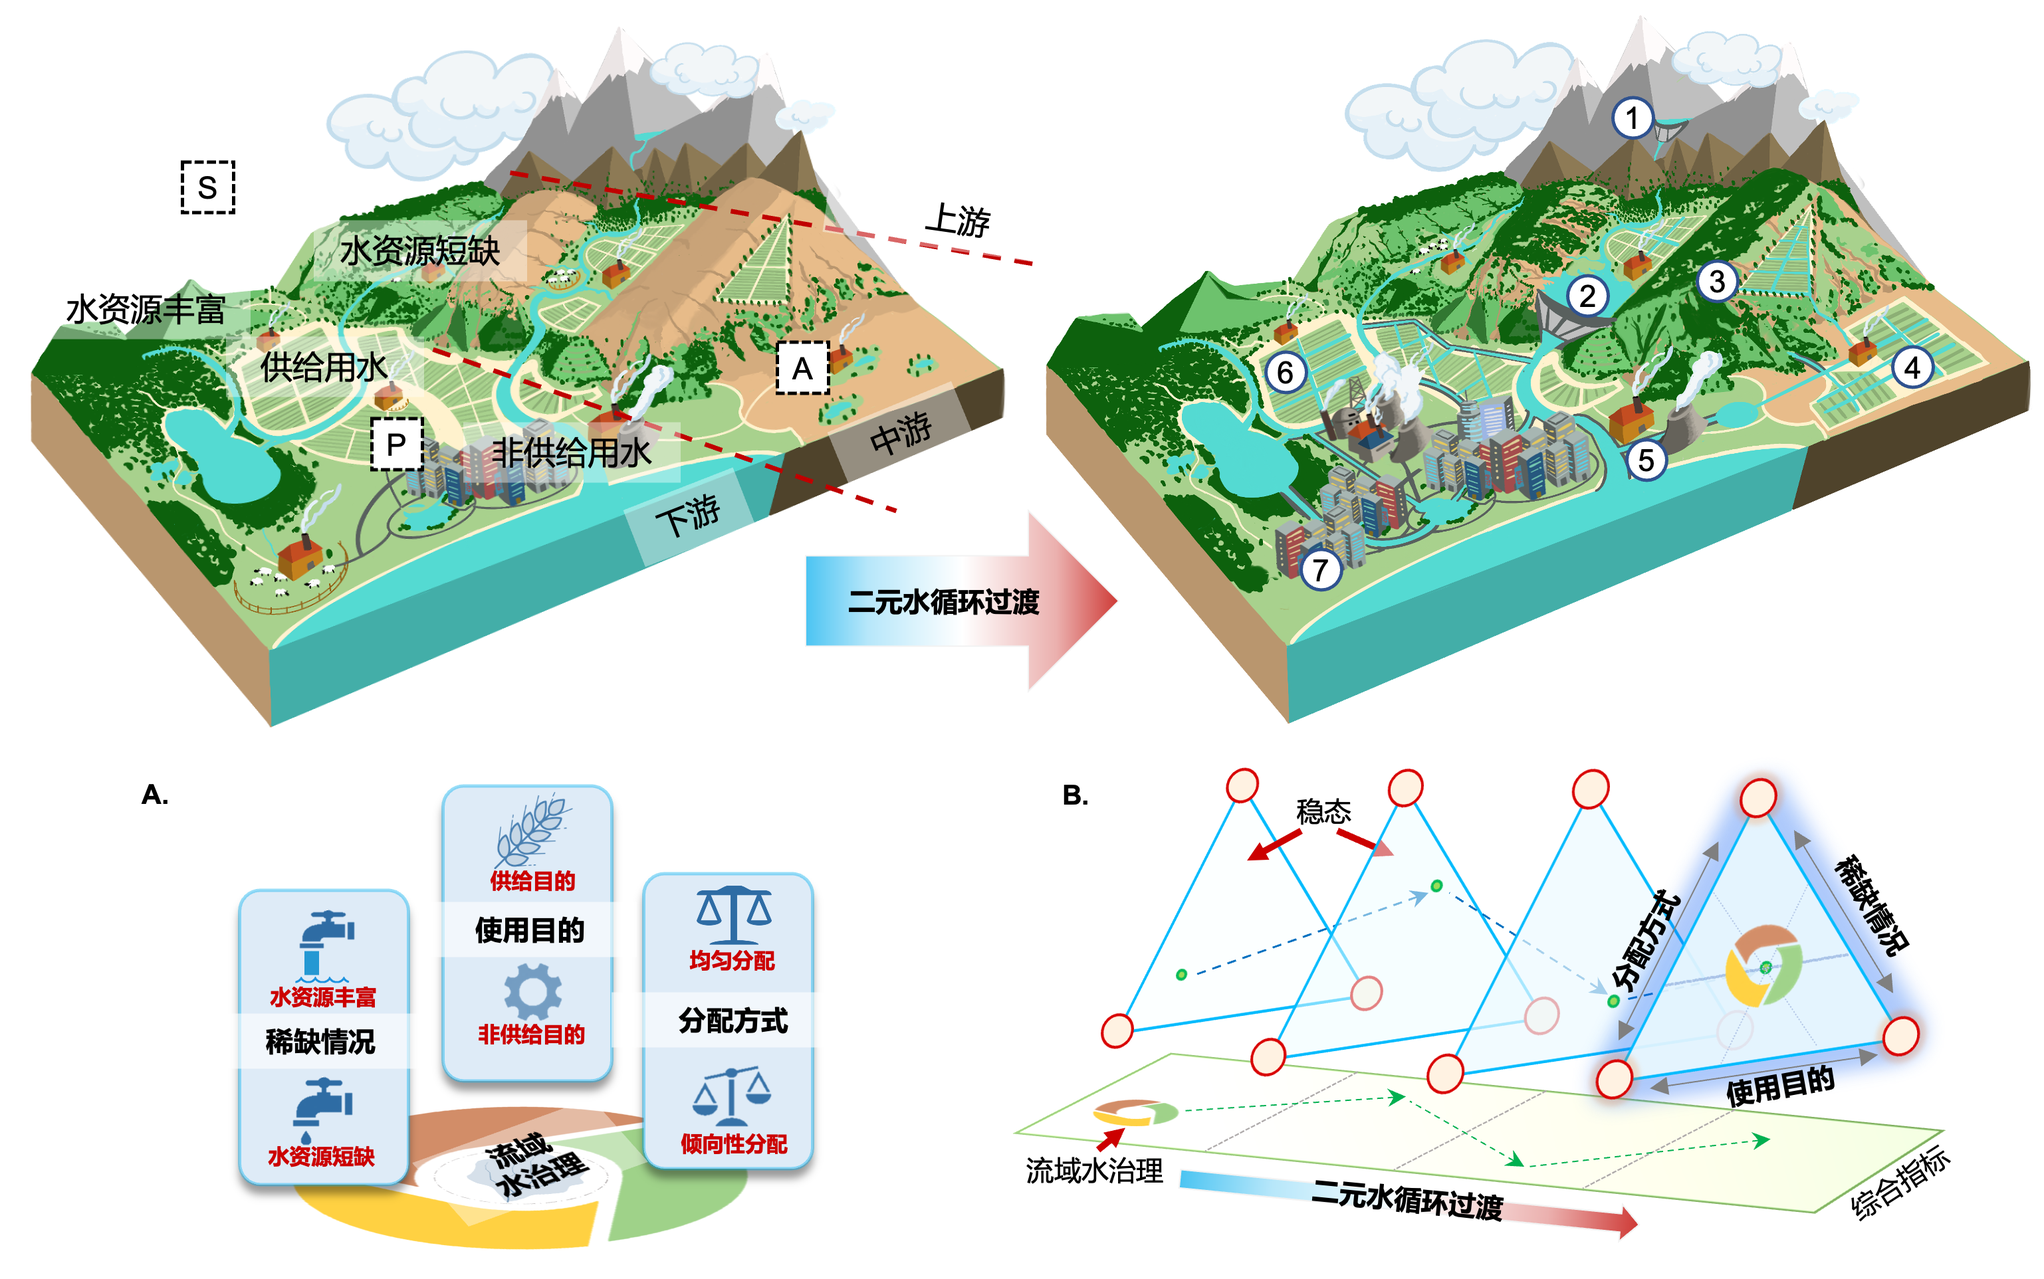
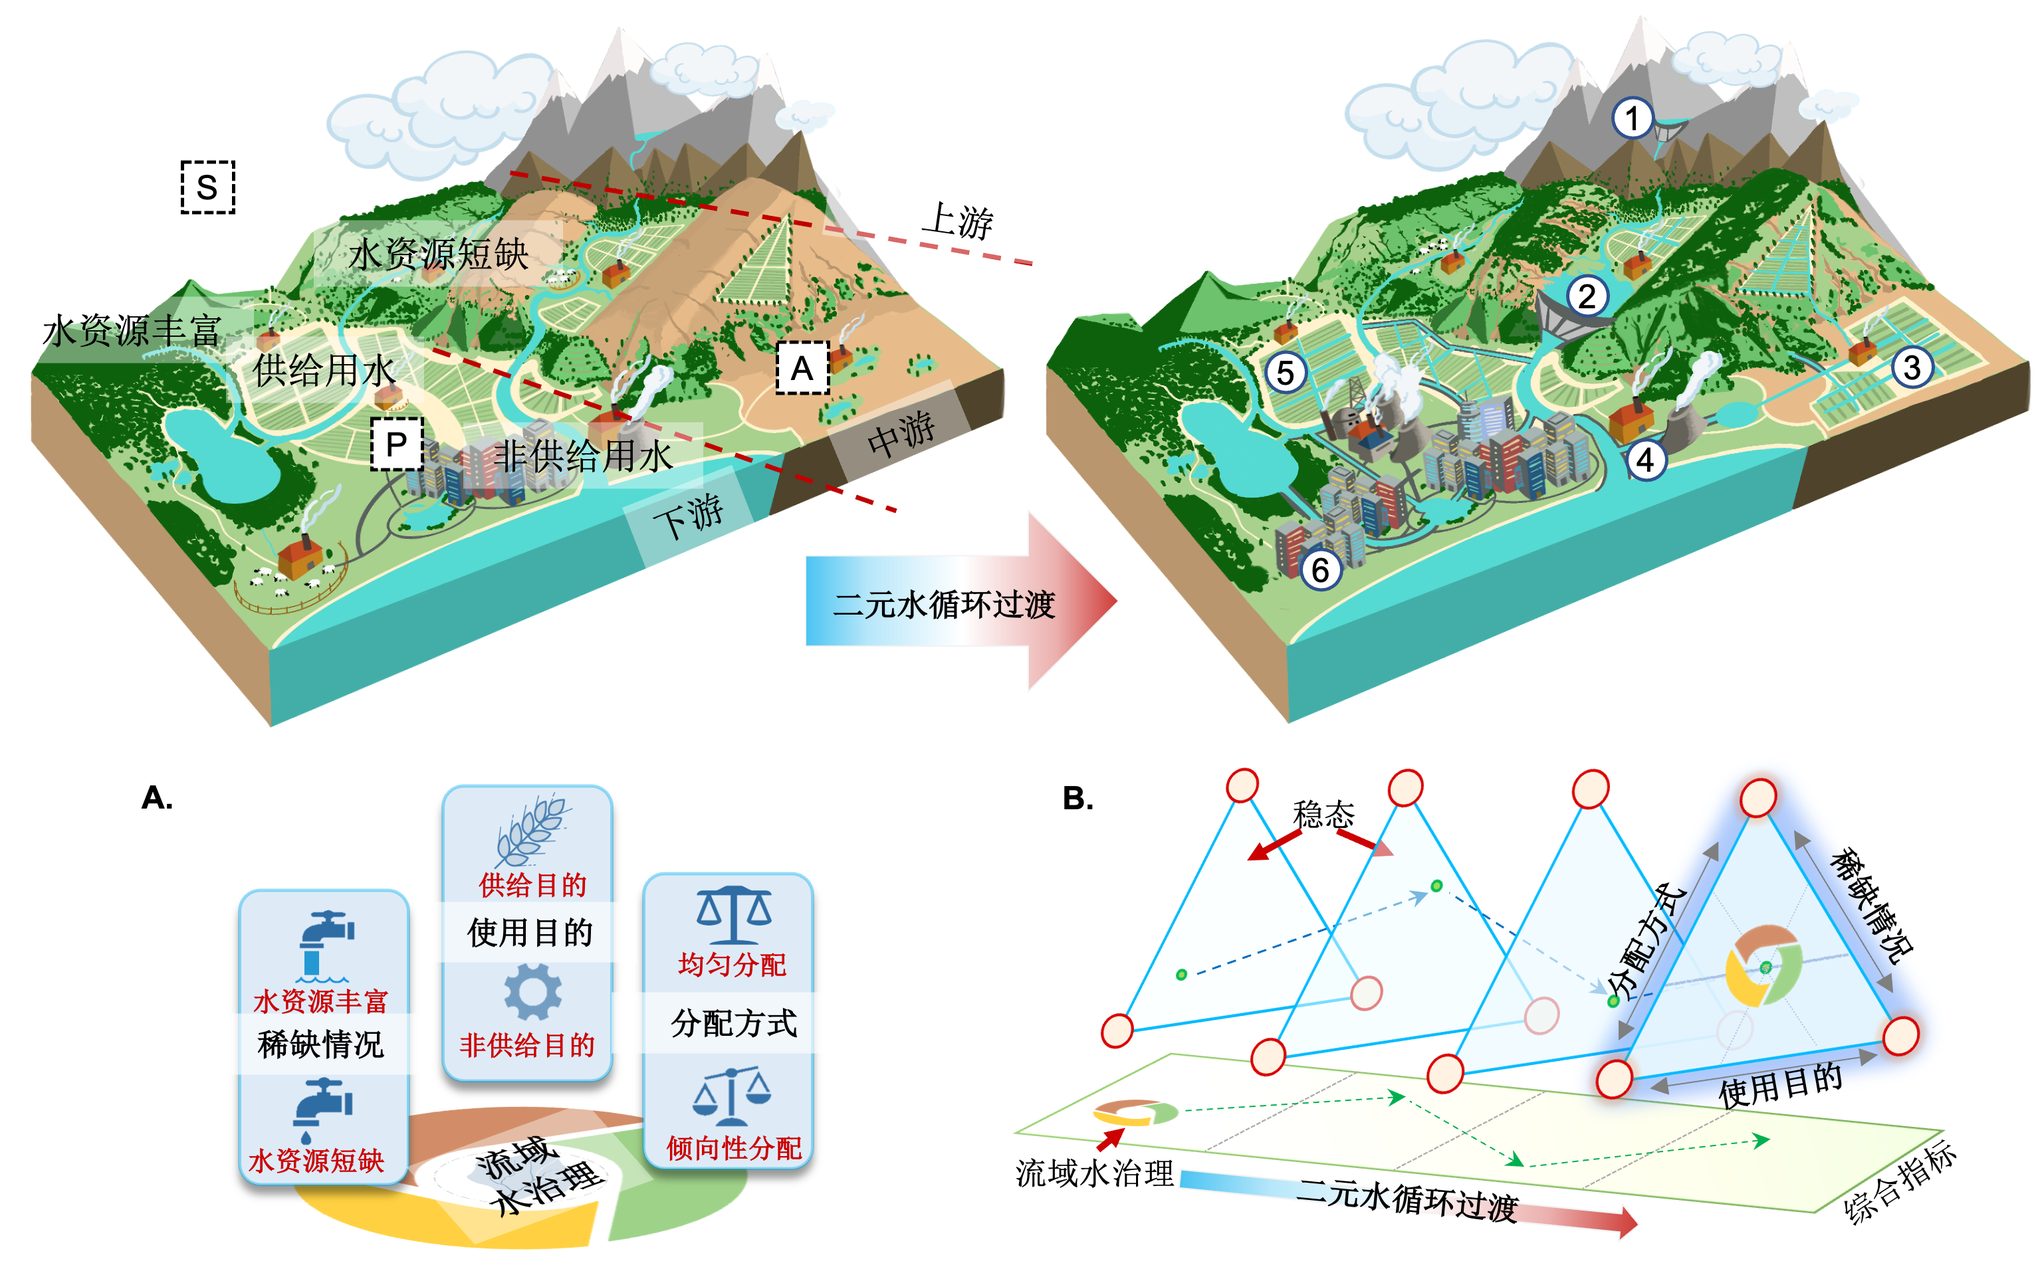
fix(chapter-4): :pencil2: 根据王总意见修改方法部分表述

diff --git a/chapter4/source/ch4_methods.tex b/chapter4/source/ch4_methods.tex
@@ -4,7 +4,7 @@
 % 根据本研究的定义，人类活动主导下的人-水关系是社会-水文二元循环中由人类主导的决策模式
 % 而水治理（Water Governance）是指影响水使用和管理的政治、社会、经济、和行政系统相互作用的全部过程，本质上是关于“谁获得水，何时获得水，如何获得水”（``who gets water, when and how''）。
 联合国开发计划署（UNDP）提出\cite{undpwatergovernancefacility2016}，水治理决定了与水有关的三个核心方面：“什么时候有多少水用?”“水如何为人类福祉提供不同的生态系统服务?”以及“谁能平等有效地用水?”——简而言之，水治理是决定水资源“稀缺情况”、“使用目的”、和“分配方式”的关键。
-为此，本章研究将水治理的三个核心方面（“稀缺情况”、“使用目的”和“分配方式”）各自选择指标进行量化，通过对它们进行同等加权，得到综合水治理指数（Integrated Water Governance Index, IWGI）以识别水治理的稳态变化（见图\ref{ch4:fig:framework}~B）。
+为此，本章研究将水治理的三个核心方面（“稀缺情况”、“使用目的”和“分配方式”）各自选择指标进行量化，对它们进行等权平均得到综合水治理指数（Integrated Water Governance Index, IWGI）用以识别水治理的稳态变化（图\ref{ch4:fig:framework}）。
 然后，通过将该指数应用在黄河这个典型的人类活动主导的流域，利用突变点检测的方法分析了$1965\sim2013$年间IWGI的变化，展示该IWGI如何有助于检测和描述复杂的水治理稳态变迁。
 最后，在综合分析了水资源供需、经济发展、环境变迁，以及制度变化后，本章解释了黄河流域水治理稳态变化的主要驱动因素，并总结提出了一个过渡模式，为人类活动主导大河流域面临的治理挑战提供了一个实践指南。
 
@@ -12,17 +12,19 @@
 \centering
 \includegraphics[width=\textwidth]{img/ch4/ch4_framework.png}
 \caption[定量识别流域水治理转变的分析框架]{
-    利用综合水治理指数（IWGI）识别水自然-社会二元循环过渡时期中的水治理机制，可以从“稀缺情况”（S）、“使用目的”（P）和“分配方式”（A）这三个主要方面切入（\textbf{A.}）。水治理的这三个方面会随着人类活动主导社会-水文循环而变化。例如，水库建设（1）可以缓解局地水资源压力；能源和工业增长（2）、集约化灌溉农业的发展（3）会改变水的利用方式；输水系统（4）控制了流域系统的水分配。IWGI方法结合三个方面的相应指标，因此其突变可以指示水治理的稳态转换（\textbf{B.}）。}\label{ch4:fig:framework}
+    \textbf{A.} 利用综合水治理指数（IWGI）识别水自然-社会二元循环过渡时期中的水治理机制，可以从稀缺情况（S）、使用目的（P）和分配方式（A）这三方面切入，三者会随着人类活动主导社会-水文循环而变化。
+    例如，水库建设（\ding{172}和\ding{173}）可以缓解局地水资源压力；集约化灌溉农业的发展（\ding{174}）以及能源和工业增长（\ding{175}）会改变水的利用方式；输水系统控制了流域系统的水分配（\ding{176}和\ding{177}）。
+    \textbf{B.} IWGI方法结合三个方面的相应指标，因此其突变可以指示水治理的稳态转换。}\label{ch4:fig:framework}
 \end{figure}
 
 \subsection{研究区域划分}\label{ch4:sec:region}
 
 为便于研究的计算需要，本章参考前人研究和黄河水利委员会的标准将黄河流域划分为四个区域\cite{shuilibuhuangheshuiliweiyuanhui,wang2019c,wang2016e}，以四个重要的控制水文站反映各区域的径流变化，各区域特点鲜明，便于后文对水资源治理的变化原因进行分析：
 
-\textbf{黄河源区（SR）:}（唐乃亥站）人口稀少，经济欠发达，主要生态功能是水源涵养，黄河超$50\%$的天然径流来自这里。
-\textbf{黄河上游（SR）:}（头道拐站）人均灌溉土地面积最高的区域，大量引黄河水发展灌溉农业，但灌溉效率相对较低。
-\textbf{黄河中游（MR）:}（花园口站）黄河在此流经著名的富沙区——黄土高原，作为土壤侵蚀风险最高的地区，是黄河产沙最多的地区，近三十年对“退耕还林”生态工程显著改变了这里的土地利用覆被。
-\textbf{黄河下游（LR）:}（利津站）人口密集，传统的农业发达地区，也曾是最大的黄河水资源使用地区。然而随着产业升级和节水工程的持续，尽管仍是总用水最多的地区，农业用水的比重不断下降。
+黄河源区（SR，控制水文站为唐乃亥站）人口稀少，经济欠发达，主要生态功能是水源涵养，黄河超$50\%$的天然径流来自这里。
+黄河上游（SR，控制水文站为头道拐站）人均灌溉土地面积最高的区域，大量引黄河水发展灌溉农业，但灌溉效率相对较低。
+黄河中游（MR，控制水文站为花园口站）黄河在此流经著名的富沙区——黄土高原，作为土壤侵蚀风险最高的地区，是黄河产沙最多的地区，近三十年对“退耕还林”生态工程显著改变了这里的土地利用覆被。
+黄河下游（LR，控制水文站为利津站）人口密集，传统的农业发达地区，也曾是最大的黄河水资源使用地区。随着产业升级和节水工程的持续实施，农业用水的比重不断下降，但仍是总用水最多的地区。
 
 
 % % 补充图片1：研究区示意图
@@ -68,10 +70,10 @@
 
 \subsubsection{子指标：水的稀缺情况}
 
-水的“稀缺情况”不仅取决于气候能提供稀缺情况资源（而且在许多地区日益稀缺和不确定性），还取决于灌溉和工业等经济活动的需求（日益无法被满足），更可以被水库蓄水、跨流域调水等工程所人为改变\cite{qin2019,wada2014,huang2021}。
+水的“稀缺情况”既取决于气候能提供稀缺情况资源，还取决于灌溉和工业等经济活动的需求，更可以被水库蓄水、跨流域调水等工程所人为改变\cite{qin2019,wada2014,huang2021}。
 本章研究采用Qin等人（2019）提出的稀缺性-弹性-易变性（SFV）水稀缺指数来评价“稀缺情况”的问题\cite{qin2019}。
 这一指标考虑了管理措施（如水库的建设）和用水结构变化（有些用水方式如能源用水是难以被短期替代的），对水资源短缺情况做出评估。
-此外，SFV指数还考虑了水资源的灵活性和易变性（例如气候差异带来的降水波动），从发展的角度关注水资源的动态，是衡量水资源压力\cite{qin2019}时间变化的有效指标。
+此外，SFV指数从发展的角度关注水资源的动态，同时考虑了水资源的灵活性和易变性（例如气候差异带来的降水波动），是衡量水资源压力\cite{qin2019}时间变化的有效指标。
 整个黄河流域的水分胁迫指标$I_S$为本章划分的四个二级区域$i$——源区（SR）、上区（UR）、中游（MR）、和下游（DR）指数$SFV_{i}$的平均值：
 
 \begin{equation}
@@ -81,7 +83,7 @@
 
 其中$SFV_i$为区域$i$的SFV指数$SFV_i$，SFV结合了以下三个指标：
 
-首先，对于稀缺性（Scarcity, S），$A_{i, j}$为区域$i$在第$j$年的耗水量占多年平均径流量的比例（本研将为黄河流域划分为四个子区域，见\ref{ch4:sec:region}\nameref{ch4:sec:region}）:
+首先，对于稀缺性（Scarcity, S），$A_{i, j}$为区域$i$在第$j$年的耗水量占多年平均径流量的比例（本研究将为黄河流域划分为四个子区域，见\ref{ch4:sec:region}\nameref{ch4:sec:region}）:
 
 \begin{equation}
     A_{i, j} = \frac{WU_{i,j}}{R_{i, avg}}
@@ -141,9 +143,8 @@
 
 \subsection{突变点检测}
 
-本章研究采用Pettitt（1979）提出的的突变点检测方法，在不假设数据分布的情况下，对水文时间序列数据的单个变化点进行检测\cite{pettitt1979}。
-它测试的原假设$H0$是：变量不存在存在变化趋势差异，备择假设则为存在一个变化趋势点。
-数学上，将随机变量序列分为$\mathrm{x}_{1}, \mathrm{x}_{1}, \ldots, x_{t_{0}}$和$x_{t_{0}+1}, x_{t_{0}+2}, \ldots, x_{T}$表示的两段，如果每段都有一个共同的分布函数，即$F_1（x）$、$F_2（x）$和$F_1（x） \neq F_2（x）$，则在$t_0$处确定变化点。
+本章研究采用Pettitt提出的的突变点检测方法，在不假设数据分布的情况下，对时间序列数据的单个变化点进行检测\cite{pettitt1979}，它测试的原假设$H0$是：变量不存在变化趋势差异，备择假设则为存在一个显著的趋势变化点。
+通过将随机变量序列分为$\mathrm{x}_{1}, \mathrm{x}_{1}, \ldots, x_{t_{0}}$和$x_{t_{0}+1}, x_{t_{0}+2}, \ldots, x_{T}$表示的两段，如果每段都有一个共同的分布函数，即$F_1（x）$、$F_2（x）$和$F_1（x） \neq F_2（x）$，则在$t_0$处确定变化点。
 
 为实现变化点的识别，定义统计指标$U_{t,T}$如下:
 
@@ -166,7 +167,7 @@
 
 本章研究使用$\alpha = 0.001$作为显著性$p$的阈值，这意味着统计上显著的变化点判断有效的概率大于$99.9\%$。
 迭代使用Pettitt算法：反复识别一个突变点从而将时间序列分为该时间点前后两段，并再次分别对两序列进行分析，直到检测到所有显著的突变点。
-虽然接下来的结果展示的是阈值$\alpha = 0.001$的结果（识别出两个断点），但是经过本研究的敏感性分析，从$0.0005$到$0.05$的阈值范围选取都不影响本研究结果的鲁棒性（参见图\ref{ch4:fig:sensitivity}）。
+虽然接下来的结果展示的是阈值$\alpha = 0.001$的结果（识别出两个断点），但是经过敏感性分析，从$0.0005$到$0.05$的阈值范围选取都不影响本研究结果的鲁棒性（参见图\ref{ch4:fig:sensitivity}）。
 
 \begin{figure}[htb] % use float package if you want it here
     \includegraphics[width=\textwidth]{img/ch4/ch4_sensitivity.png}
@@ -185,9 +186,9 @@
 GDP数据、人口数据等来自于国家统计局的统计年鉴\url{http://www.stats.gov.cn/tjsj/ndsj/2019/indexeh.htm}。
 水资源相关数据来源于第二次国家水资源调查\cite{zhou2020}和水文统计年鉴\url{http://www.yrcc.gov.cn/other/hhgb/}。
 水资源利用数据集由Zhou等人于2020年\cite{zhou2020}发布，该数据集记录了各地级市不同用水部门的水资源使用情况。
-第二次国家水资源调查是由国家发展和改革委员会以及水利部牵头启动的数据统计项目（详见\url{http://www.mwr.gov.cn/english/publs/}），所有数据已使用相同的标准匹配到2013年的行政区划。
-该数据涵盖了四个大类的用水情况：农业（IRR）、工业（IND）、城市（URB）和农村（RUR）用水（详见Zhou等人，2020\cite{zhou2020}）。
-尽管每个用水部门的分类在县尺度上都存在一定程度上的数据不确定性，但由于相关部门已使用过水平衡方法对统计信息进行了校正，因此该数据足以用于本研究中使用的区域尺度研究。
+所有数据已使用相同的标准匹配到2013年的行政区划（详见\url{http://www.mwr.gov.cn/english/publs/}）。
+该数据涵盖了四个大类的用水情况：农业（IRR）、工业（IND）、城市（URB）和农村（RUR）用水\cite{zhou2020}。
+每个用水部门的分类在县尺度上都存在一定程度上的数据不确定性，但由于相关部门已使用过水平衡方法对统计信息进行了校正，因此该数据足以用于本研究中使用的区域尺度研究。
 
 \subsubsection{水文数据}
 水库名录数据集由Wang等人\cite{wang2019c}收集，包括了1949年以来在黄河流域新建的重要水库。
@@ -196,15 +197,14 @@ GDP数据、人口数据等来自于国家统计局的统计年鉴\url{http://ww
 \subsubsection{书面文献}
 
 政策数据集收集了黄河流域综合规划中所列的、由流域级以上部门（如黄河水利委员会、国家部委等）颁布实施的、与黄河流域治理相关的法律政策\cite{shuilibuhuangheshuiliweiyuanhui}（见表~\ref{ch4:tab:policies}）。
-此外，还有些难以分类的、被黄河水利委员会所收集整理的“黄河大事件”，记录了历史上黄河流域的许多治理实践，本研究从黄河水利委员会的网站（\url{http://www.yrcc.gov.cn/hhyl/hhjs/}）中收集它们。
-
+此外，还有些难以分类的、被黄河水利委员会所收集整理的“黄河大事件”，记录了历史上黄河流域的许多治理实践，本研究从黄河水利委员会的网站收集整理（\url{http://www.yrcc.gov.cn/hhyl/hhjs/}）。
 \input{chapter4/source/tab_policies.tex}
 
 \subsection{数据分析}
 
 \subsubsection{相关分析与显著性检验}
 
-在统计学中，皮尔逊相关系数（Pearson correlation coefficient，通常用 r 表示）是用于衡量两个连续变量之间线性关系强度的指标。它的值范围在 -1 到 1 之间，其中 -1 表示完全负相关，1 表示完全正相关，0 表示无相关性。为了计算两个变量之间的皮尔逊相关系数，我们可以使用以下公式：
+皮尔逊相关系数（Pearson correlation coefficient，通常用 $r$ 表示）是用于衡量两个连续变量之间线性关系强度的指标。它的值范围在 $-1$ 到 $1$ 之间，其中 $-1$ 表示完全负相关，$1$ 表示完全正相关，$0$ 表示无相关性，本研究使用该指标反映某时段内IWGI的趋势同哪些子指标变化趋势更密切，为了计算两个变量之间的皮尔逊相关系数，我们可以使用以下公式：
 
 \begin{equation}
     r = \frac{\sum_{i=1}^{n}(x_i - \bar{x})(y_i - \bar{y})}{\sqrt{\sum_{i=1}^{n}{(x_i - \bar{x})}^2}\sqrt{\sum_{i=1}^{n}{(y_i - \bar{y})}^2}}
@@ -251,7 +251,7 @@ GDP数据、人口数据等来自于国家统计局的统计年鉴\url{http://ww
     & \Delta \log (C)=\log \left(C_{end}\right)-\log \left(C_{start}\right) \\
     & \Delta \log (A)=\log \left(A_{end}\right)-\log \left(A_{start}\right) \\
     & \Delta \log (B)=\log \left(B_{end}\right)-\log \left(B_{start}\right) \\
-    \Delta \log (C)=k_1 \cdot \Delta \log (A)+k_2 \cdot \Delta \log (B)
+    & \Delta \log (C)=k_1 \cdot \Delta \log (A)+k_2 \cdot \Delta \log (B)
     \end{aligned}
 \end{equation}
 

diff --git a/chapter4/source/tab_data_source.tex b/chapter4/source/tab_data_source.tex
@@ -2,17 +2,17 @@
 \begin{table}[htbp]
     \centering
     \caption{数据分类与来源}
-      \begin{tabularx}{\textwidth}{LLLLL}
+      \begin{tabularx}{\textwidth}{p{4cm}LLLp{3cm}}
       \toprule
       数据集   & 数据类型  & 空间尺度  & 时间尺度  & 数据来源 \\
       \midrule
-      行政区水资源利用 & 统计    & 市级行政单元 & $1965-2013$ & Zhou等人2020 \\
+      行政区水资源利用 & 统计    & 市级行政单元 & $1965-2013$ & 文献\cite{zhou2020} \\
       子流域水资源使用 & 统计    & 二级子流域 & $2003-2019$ & 水资源公报 \\
       GDP数据 & 统计    & 省级行政单元 & $1949-2019$ & 万德数据库 \\
-      水库数据集 & 水文    & 站点数据  & $1949-2015$ & Wang等人2019 \\
-      实测泾流量 & 水文    & 站点数据  & $1949-2019$ & Wang等人2019 \\
-      黄河流域相关法律 & 文献    & 流域相关文件 & $1949-2013$ & 黄河流域规划 \\
-      黄河水利委员会历史 & 文献    & 流域相关文件 & $1949-2002$ & 黄河水利委员会档案馆 \\
+      水库数据集 & 水文    & 站点数据  & $1949-2015$ & 文献\cite{wang2019c} \\
+      实测泾流量 & 水文    & 站点数据  & $1949-2019$ & 文献\cite{wang2019c} \\
+      黄河流域相关法律 & 文献    & 流域相关文件 & $1949-2013$ & 黄河流域规划\cite{shuilibuhuangheshuiliweiyuanhui2010} \\
+      黄河水利委员会历史沿革 & 文献    & 流域相关文件 & $1949-2002$ & 黄河水利委员会档案馆 \\
       黄河大事件 & 文献    & 流域相关文件 & $1949-2015$ & 黄河水利委员会档案馆 \\
       \bottomrule
       \end{tabularx}%

diff --git a/main.tex b/main.tex
@@ -25,7 +25,7 @@
 	%% create a derivative column type called 'L':
 	\usepackage{pdflscape}  % 横过来页面，参考https://weibo.com/5342622960/GifjJhxIK
 	\usepackage{rotating}  % 旋转表格，参考https://weibo.com/5342622960/GifjJhxIK
-	\usepackage{adjustbox}  % 旋转 box，参考https://www.latex4technics.com/?note=1OI3
+	\usepackage{pifont}  % 输入带圈数字，参考https://blog.csdn.net/tsingke/article/details/105961016
 	\newcolumntype{L}{>{\RaggedRight\hangafter=1\hangindent=0em}X}
 
 	\begin{document}

diff --git a/chapter4/source/tab_policies.tex b/chapter4/source/tab_policies.tex
@@ -1,5 +1,5 @@
 % Table generated by Excel2LaTeX from sheet '黄河流域法律政策'
-\begin{table}[htbp]
+\begin{table}[!tbp]
     \centering
     \caption{黄河流域法律政策}
       \begin{tabularx}{\textwidth}{L p{1cm} L}
